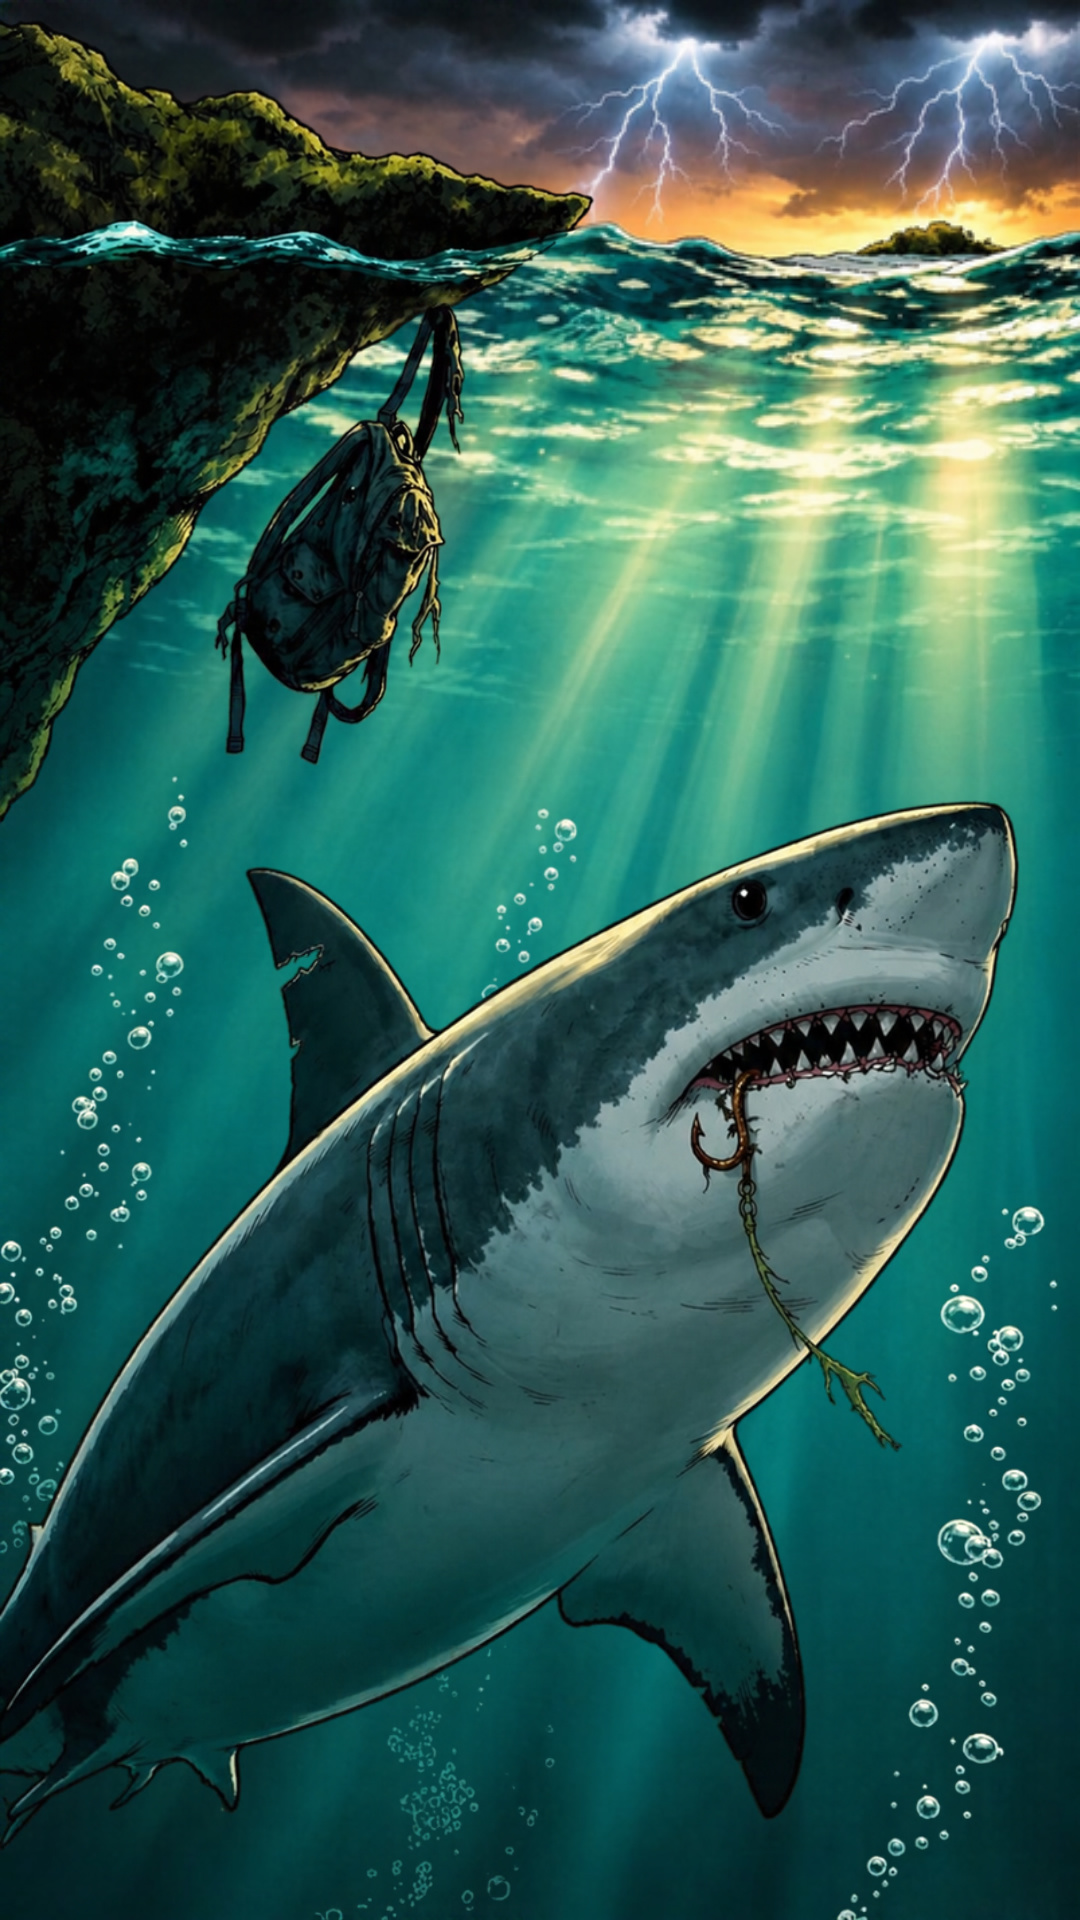
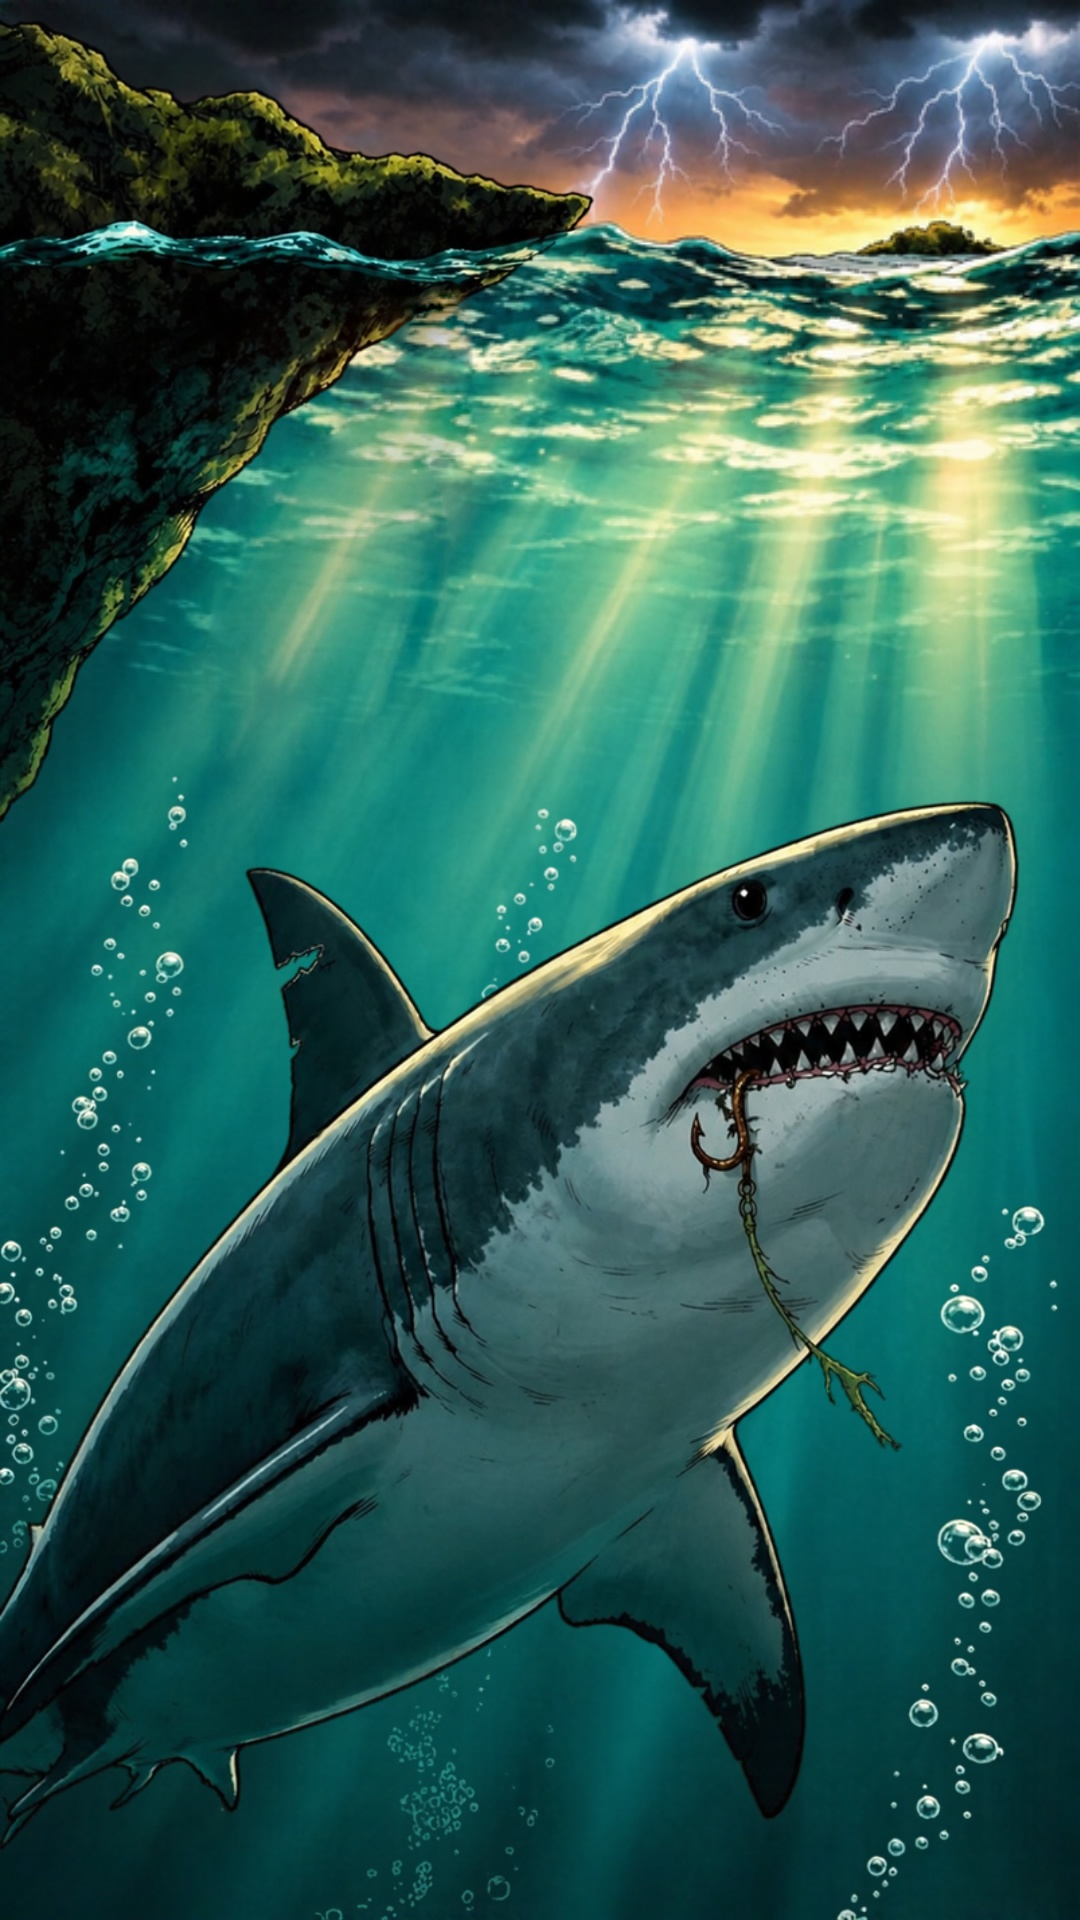
ADA 9: 15 köpekbalığı 09c ile aynı, kanca 01b gibi; 01b çanta sudan kaldırıldı
Claude-Session: https://claude.ai/code/session_014JxJGGMAcsX945kBrKhihb

Changed region(s): [[0.1833, 0.1562, 0.4583, 0.4062]]

diff --git a/hikaye-video/projeler/ada9/01b-canta.py b/hikaye-video/projeler/ada9/01b-canta.py
@@ -1,0 +1,40 @@
+#!/usr/bin/env python3
+"""01b: sualtında asılı duran çantayı kaldırır (su temiz kalır). Köpekbalığı ve kanca değişmez.
+Kullanım (repo kökünden): python3 hikaye-video/projeler/ada9/01b-canta.py <orijinal-01b.jpg> <cikti.jpg>
+Adımlar: çantayı renk+GrabCut ile bul -> yerini sağdaki temiz sudan kopyayla doldur."""
+import sys, cv2, numpy as np
+
+src, out = sys.argv[1], sys.argv[2]
+im = cv2.imread(src); H, W = im.shape[:2]
+E = 270  # üstten eklenen yükseklik (su çizgisi aşağı iner, çanta için kuru yer açılır)
+
+# 1) çantayı kes
+rect = (205, 300, 280, 480)  # x, y, w, h
+mask = np.zeros((H, W), np.uint8)
+bgd = np.zeros((1, 65), np.float64); fgd = np.zeros((1, 65), np.float64)
+cv2.grabCut(im, mask, rect, bgd, fgd, 6, cv2.GC_INIT_WITH_RECT)
+fg = ((mask == 1) | (mask == 3)).astype(np.uint8) * 255
+n, lab, st, _ = cv2.connectedComponentsWithStats(fg)
+big = 1 + int(np.argmax(st[1:, 4])); fg = (lab == big).astype(np.uint8) * 255
+hsv = cv2.cvtColor(im, cv2.COLOR_BGR2HSV)
+water = ((hsv[..., 1] > 120) & (hsv[..., 2] > 125)).astype(np.uint8) * 255   # parlak doygun turkuaz su
+fg &= cv2.bitwise_not(water)
+fg = cv2.morphologyEx(fg, cv2.MORPH_CLOSE, cv2.getStructuringElement(cv2.MORPH_ELLIPSE, (23, 23)))
+n, lab, st, _ = cv2.connectedComponentsWithStats(fg)
+big = 1 + int(np.argmax(st[1:, 4])); fg = (lab == big).astype(np.uint8) * 255
+ff = fg.copy(); cv2.floodFill(ff, np.zeros((H + 2, W + 2), np.uint8), (0, 0), 255)   # delikleri doldur
+fg = fg | cv2.bitwise_not(ff)
+fg = cv2.dilate(fg, np.ones((3, 3), np.uint8))
+ys, xs = np.where(fg > 0); bx0, by0, bx1, by1 = xs.min(), ys.min(), xs.max(), ys.max()
+sprite = np.dstack([im, cv2.GaussianBlur(fg, (0, 0), 1.3)])[by0:by1 + 1, bx0:bx1 + 1].astype(np.float32)
+
+# 2) eski yeri sudan doldur (sağdaki temiz sudan kopya)
+m = cv2.dilate(fg, cv2.getStructuringElement(cv2.MORPH_ELLIPSE, (21, 21)))
+srcim = np.roll(im, -300, axis=1)
+yy, xx = np.where(m > 0)
+c = ((xx.min() + xx.max()) // 2, (yy.min() + yy.max()) // 2)
+clean = cv2.seamlessClone(srcim, im, m, c, cv2.NORMAL_CLONE)
+
+# 3) çanta tamamen kaldırıldı (01a zaten çantayı su üstünde, kayada gösteriyor); köpekbalığı ve kanca aynen kalır
+cv2.imwrite(out, clean, [cv2.IMWRITE_JPEG_QUALITY, 95])
+print('tamam', out)

diff --git a/hikaye-video/projeler/ada9/kanca.py b/hikaye-video/projeler/ada9/kanca.py
@@ -22,9 +22,8 @@ SAHNE = {
     '14b': dict(cor=[(200, 1440, 360, 1860)], sil=[([(322, 1282), (330, 1250), (352, 1226), (400, 1214), (432, 1232), (444, 1262), (432, 1292), (396, 1306), (360, 1322), (342, 1352), (338, 1385)], 42),
                      ([(346, 1396), (356, 1416)], 84), ([(338, 1430), (332, 1480), (318, 1540), (312, 1600), (296, 1690), (270, 1770), (245, 1830)], 30),
                      ([(310, 1535), (255, 1565)], 44), ([(285, 1785), (215, 1850)], 56)], orijinal=(345, 1232, 8, 1.3)),
-    '15': dict(cor=[(893, 1490, 1020, 1585)], sil=[([(886, 1494), (892, 1516)], 22), ([(880, 1524), (884, 1530)], 40),
-                    ([(900, 1535), (925, 1568), (962, 1582), (992, 1560), (1002, 1528), (990, 1500), (950, 1487)], 46), ([(955, 1490), (970, 1535)], 32)],
-               orijinal=(868, 1470, 0, 0.55)),
+    # 15: önce Canva'dan 09c köpekbalığıyla alt yarı üretildi, orijinal üst yarıyla birleştirildi (15comp); sonra Canva'nın küçük kancası silinip 01b kancası konur
+    '15': dict(cor=[(585, 1605, 650, 1700)], orijinal=(598, 1624, 0, 0.9)),
     '01b': dict(cor=[(670, 1090, 920, 1470)], sil=[([(738, 1078), (736, 1122)], 30), ([(745, 1182), (748, 1202)], 56), ([(708, 1160), (716, 1170)], 36), ([(826, 1392), (838, 1400)], 34), ([(880, 1436), (896, 1446)], 36), ([(826, 1330), (840, 1345)], 30)], orijinal=(774, 1092, 0, 0.5)),
 }
 
